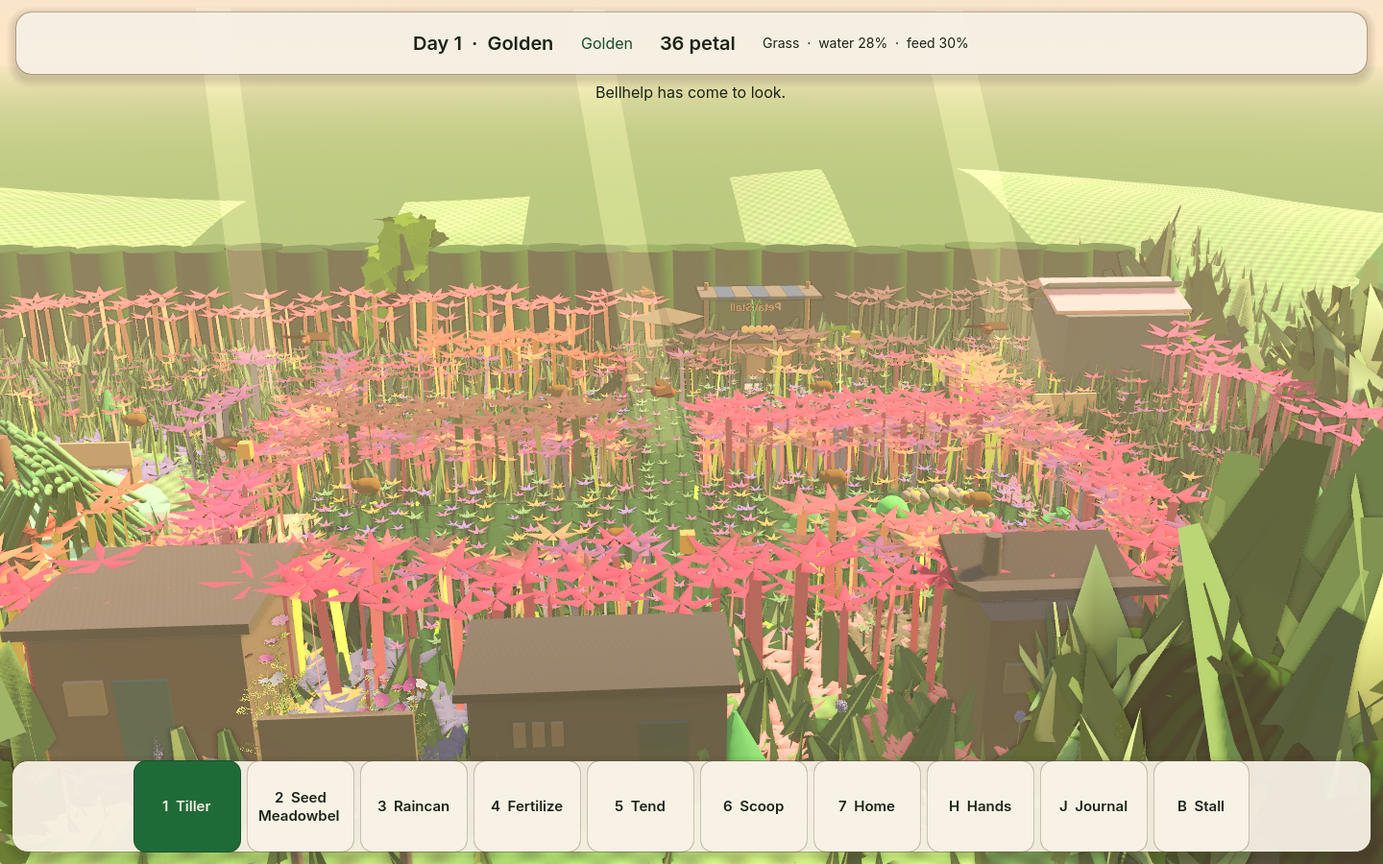
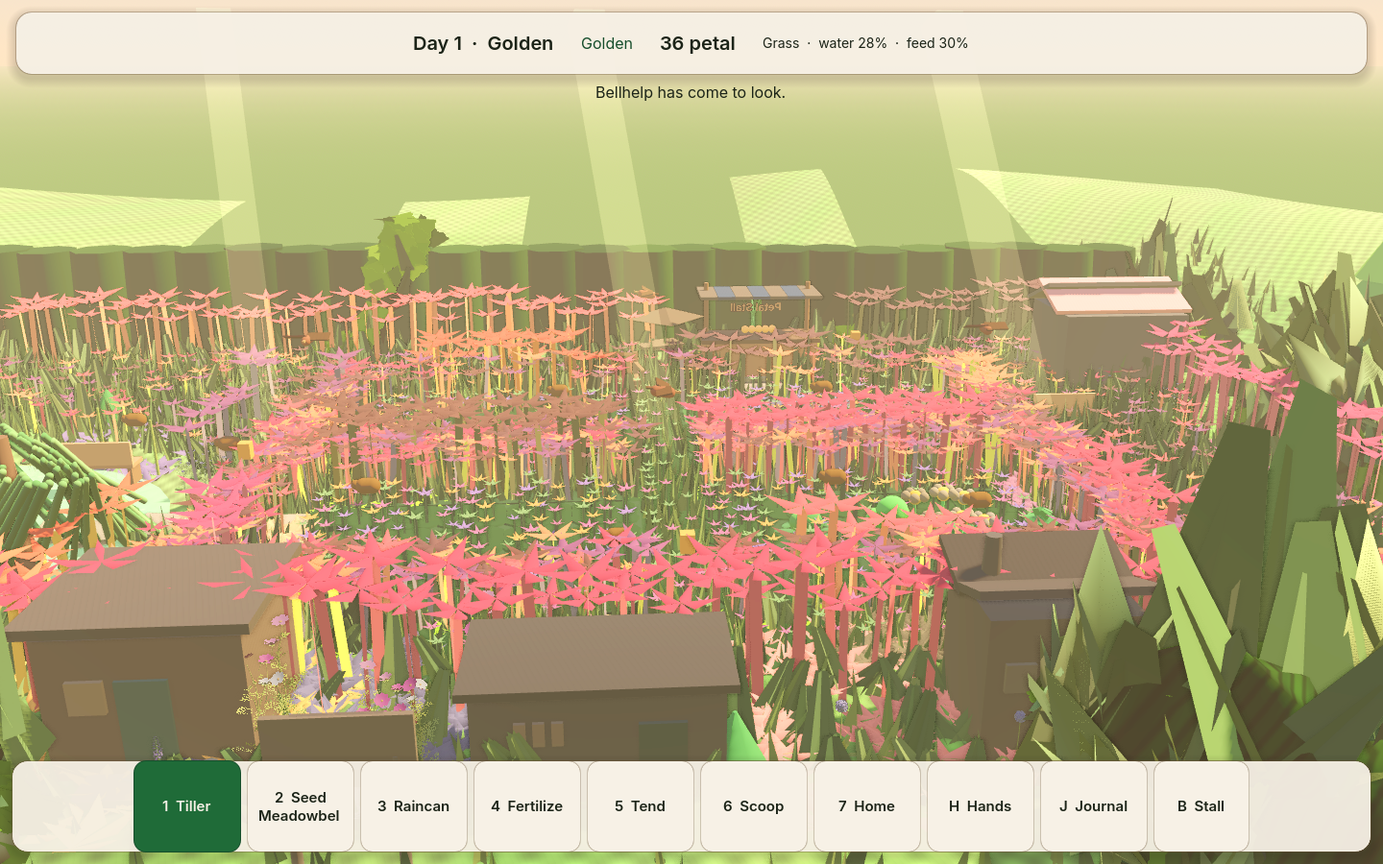
Grow lawn grass on the old bed tracks.
The stall spur and the pond path stay worn. This shot is 1.21% (903), hill (212.0, 223.6, 146.4).

diff --git a/docs/PETALWILD_MASTER_STATE.md b/docs/PETALWILD_MASTER_STATE.md
@@ -38,7 +38,7 @@ This machine has no Vulkan surface. Godot falls back to OpenGL 3 / llvmpipe. Aud
 - The garden does not yet look like the concept plates. See the gap list below.
 - Bellhelp’s five sphere lobes are gone. Five narrow petals run from the tips down to a small pad, with a dark five-petal well, a gold seed, a wider flared whorl, a lower rim, five gap tips past the lobes, a darker band, and a wide short rank inside the tips. The wide skirt of spheres is gone.
 - Lumen’s stalk is one fluted taper, cream at the base and green at the crown. The raised hand holds a seed tray. Each hand is a palm with three fingers and a thumb.
-- Crest leaf cards are 0.4 scale, and the far hedge keeps one 2.5 m tuft in four. A dark shrub row stands just behind that wall, taller at the east end. Light-green in the upper opening band fell from 53% to 24%, and in the lower band from 36% to 13%. The hill did not move. The stall still shows through the middle. The bright blue in that opening was the awning cloth. That stripe is darker now, about (171, 171, 173), and the sky-blue detector on the overview is 0. The shrub row behind the wall was the pale green in the upper band. That check now covers 1.2%, down from 3.5%. The crest leaf cards and the far trees were the side-opening pale pixels. The north backdrop trees are shorter. Paths are dark dirt with darker flagstones. Blooms are rose. StandardMaterial specular is off. The bench and planter are darkened, bright plant-atlas texels are capped, and the lantern glass is amber. The pink disk by the south-west rail, the untilled grass-plot tops, the meadowbell petals, the mauve bed, the resident hands, the light flagstones, the path dirt, and the loose stones are darkened. Overview pixels at pure white are 0. A planted cell keeps the meadow lid, so the crop sits in the bed. The north and south plots meet across the lawn. Flowers spill past the outer edges of the four beds and still line the north-south path. The path center stays open. The north-south track is narrower and its shoulders are meadow. The south and north tracks are narrower too. The wooden frames and the inner hedge around the beds are gone. The bed tracks are meadow. The stall spur and the pond path stay worn. On the smaller-stone shot that check was 1.16% (870 pixels). On the open-stone shot that check was 1.28% (955 pixels). On this shot the upper-band check is 1.53% (1148 pixels) and the hill mean is (212.2, 223.9, 146.6). Eight bees drift over the beds. Four birds cross the garden by day and perch at dusk and in the rain.
+- Crest leaf cards are 0.4 scale, and the far hedge keeps one 2.5 m tuft in four. A dark shrub row stands just behind that wall, taller at the east end. Light-green in the upper opening band fell from 53% to 24%, and in the lower band from 36% to 13%. The hill did not move. The stall still shows through the middle. The bright blue in that opening was the awning cloth. That stripe is darker now, about (171, 171, 173), and the sky-blue detector on the overview is 0. The shrub row behind the wall was the pale green in the upper band. That check now covers 1.2%, down from 3.5%. The crest leaf cards and the far trees were the side-opening pale pixels. The north backdrop trees are shorter. Paths are dark dirt with darker flagstones. Blooms are rose. StandardMaterial specular is off. The bench and planter are darkened, bright plant-atlas texels are capped, and the lantern glass is amber. The pink disk by the south-west rail, the untilled grass-plot tops, the meadowbell petals, the mauve bed, the resident hands, the light flagstones, the path dirt, and the loose stones are darkened. Overview pixels at pure white are 0. A planted cell keeps the meadow lid, so the crop sits in the bed. The north and south plots meet across the lawn. Flowers spill past the outer edges of the four beds and still line the north-south path. The path center stays open. The north-south track is narrower and its shoulders are meadow. The south and north tracks are narrower too. The wooden frames and the inner hedge around the beds are gone. The bed tracks are meadow, with the same lawn grass. The stall spur and the pond path stay worn. On the smaller-stone shot that check was 1.16% (870 pixels). On the open-stone shot that check was 1.28% (955 pixels). On the flower-track shot that check was 1.53% (1148 pixels) and the hill mean was (212.2, 223.9, 146.6). On this shot the upper-band check is 1.21% (903 pixels) and the hill mean is (212.0, 223.6, 146.4). Eight bees drift over the beds. Four birds cross the garden by day and perch at dusk and in the rain.
 - City, venues, and the agent civilisation are a single parish record (`data/district.json`, Hedge Hollow, phase A).
 - On-screen jellies stay at district fidelity or nearer. The directory shows each resident's home and job. The parish page lists venues. Petal Stall, the potting shed, the hedge tea house, the research hut, the media foundry, and the town hall board are open. Grove Park is not built, and demand for it is not simulated. Petal Stall demand is the people present plus creature residents.
 - Trust cannot research, draft, or act outside the process.
@@ -64,14 +64,14 @@ Spent: 0. Remaining on the connected account: **367.46** (pro). Catalog check re
 
 Compared `docs/screenshots/wave1_overview.png`, `wave1_jelly.png`, and `wave1_lumen.png` with `docs/reference/petalwild_target_garden_01.png` and `petalwild_target_garden_02.png`.
 
-The north backdrop trees are shorter than the hedge. Crest leaf cards are 0.4 scale, and the far hedge keeps one 2.5 m tuft in four. A dark shrub row stands just behind that wall, taller at the east end. Light-green pixels fell from 53% to 24% in the upper opening band (screen y 265–320) and from 36% to 13% in the lower band (y 290–360). East-lip luminance (y 252–272) fell from 200 to 162. The hill (y 200–245) did not change. Bellhelp’s close-up is on open lawn: five narrow lobes, a dark five-petal well, a gold seed, a wider flared whorl, a lower rim, five gap tips past the lobes, a darker band, and a wide short rank inside the tips. The bench and planter use a dark multiply, bright plant-atlas texels are capped, and the lantern glass is amber. The pink disk by the south-west rail, the untilled grass-plot tops, the meadowbell petals, the mauve bed, the resident hands, the light flagstones, the path dirt, and the loose stones are darkened. Pure white on this overview is 0. The stall awning’s bright blue was cloth, now about (171, 171, 173), and the sky-blue detector is 0. The shrub row behind the wall no longer reads as pale green; that upper-band check is 1.2%. On the previous shot that check was 1.17% and the hill mean was (212.9, 224.4, 147.6). With the hedge tea house in the lower left, that shot was 1.30%. With the research hut in the lower middle, that shot was 1.17% (874 pixels). With the media foundry in the lower middle, that shot was 1.15% (862 pixels). With the town hall board in the south gate, that shot was 1.29% (968 pixels) and the hill mean was (212.0, 223.6, 146.4). On that shot the check was 1.54% (1155 pixels) and the hill mean was (212.0, 223.7, 146.5). Empty untilled beds now carry nine dark leaf discs and eight short flowers, and a tilled or planted bed clears them. On the leaf-cover shot the check was 1.60% (1197 pixels) and the hill mean was (212.1, 223.8, 146.5). Neighboring empty cells now share an overlapping dark lid, so the brown seam inside a plot closes. On the joined-lid shot the check was 1.61% (1208 pixels) and the hill mean was (212.1, 223.8, 146.5). A planted cell now keeps that dark lid, so the crop sits in the meadow instead of an inset square. On the planted-lid shot the check was 1.54% (1149 pixels) and the hill mean was (212.1, 223.7, 146.5). The north and south plots now meet across the lawn, and the north-south path stays open. On the bridge shot the check was 1.57% (1176 pixels) and the hill mean was (212.2, 223.8, 146.6). Flowers now sit on both lips of the north-south path, and the path center stays open. On the path-lip shot the check was 1.61% (1204 pixels) and the hill mean was (212.1, 223.8, 146.5). Flowers now spill past the outer edges of the four beds, and the path-center pixels are unchanged. On the bed-edge shot the check was 1.45% (1083 pixels) and the hill mean was (212.2, 223.9, 146.6). The north-south track is narrower, its shoulders are meadow, and the center stays stone. On the narrow-track shot the check was 1.46% (1091 pixels) and the hill mean was (212.2, 223.9, 146.6). The south and north tracks are narrower too, with flowers on their lips. On the track-lip shot the check was 1.45% (1083 pixels) and the hill mean was (212.2, 223.9, 146.6). The wooden frames and the inner hedge around the four beds are gone. The parish hedge stays. On the open-bed shot the check was 1.26% (940 pixels) and the hill mean was (212.0, 223.6, 146.4). On the stepping-stone shot the check was 1.52% (1136 pixels) and the hill mean was (212.0, 223.7, 146.5). On the smaller-stone shot the check was 1.16% (870 pixels) and the hill mean was (212.0, 223.6, 146.4). On the open-stone shot the check was 1.28% (955 pixels) and the hill mean was (212.2, 223.9, 146.6). On this shot the check is 1.53% (1148 pixels) and the hill mean is (212.2, 223.9, 146.6). The swing is the west edge of the hill under the swaying leaves. A planted meadowbell is three bells on a leaf pad, and every crop sits in a ring of eight leaves. Eight bees drift over the beds. Four birds cross the garden by day and perch at dusk and in the rain. Paths are flagstones on dark dirt. Lumen’s stalk is one fluted taper, and the raised hand holds the seed tray. `PETAL_SMOKE_OK`, `PETAL_RULES_OK`, and `PETAL_CAPTURE_OK` passed on this tree. Shots are the six `wave1_*.png` files.
+The north backdrop trees are shorter than the hedge. Crest leaf cards are 0.4 scale, and the far hedge keeps one 2.5 m tuft in four. A dark shrub row stands just behind that wall, taller at the east end. Light-green pixels fell from 53% to 24% in the upper opening band (screen y 265–320) and from 36% to 13% in the lower band (y 290–360). East-lip luminance (y 252–272) fell from 200 to 162. The hill (y 200–245) did not change. Bellhelp’s close-up is on open lawn: five narrow lobes, a dark five-petal well, a gold seed, a wider flared whorl, a lower rim, five gap tips past the lobes, a darker band, and a wide short rank inside the tips. The bench and planter use a dark multiply, bright plant-atlas texels are capped, and the lantern glass is amber. The pink disk by the south-west rail, the untilled grass-plot tops, the meadowbell petals, the mauve bed, the resident hands, the light flagstones, the path dirt, and the loose stones are darkened. Pure white on this overview is 0. The stall awning’s bright blue was cloth, now about (171, 171, 173), and the sky-blue detector is 0. The shrub row behind the wall no longer reads as pale green; that upper-band check is 1.2%. On the previous shot that check was 1.17% and the hill mean was (212.9, 224.4, 147.6). With the hedge tea house in the lower left, that shot was 1.30%. With the research hut in the lower middle, that shot was 1.17% (874 pixels). With the media foundry in the lower middle, that shot was 1.15% (862 pixels). With the town hall board in the south gate, that shot was 1.29% (968 pixels) and the hill mean was (212.0, 223.6, 146.4). On that shot the check was 1.54% (1155 pixels) and the hill mean was (212.0, 223.7, 146.5). Empty untilled beds now carry nine dark leaf discs and eight short flowers, and a tilled or planted bed clears them. On the leaf-cover shot the check was 1.60% (1197 pixels) and the hill mean was (212.1, 223.8, 146.5). Neighboring empty cells now share an overlapping dark lid, so the brown seam inside a plot closes. On the joined-lid shot the check was 1.61% (1208 pixels) and the hill mean was (212.1, 223.8, 146.5). A planted cell now keeps that dark lid, so the crop sits in the meadow instead of an inset square. On the planted-lid shot the check was 1.54% (1149 pixels) and the hill mean was (212.1, 223.7, 146.5). The north and south plots now meet across the lawn, and the north-south path stays open. On the bridge shot the check was 1.57% (1176 pixels) and the hill mean was (212.2, 223.8, 146.6). Flowers now sit on both lips of the north-south path, and the path center stays open. On the path-lip shot the check was 1.61% (1204 pixels) and the hill mean was (212.1, 223.8, 146.5). Flowers now spill past the outer edges of the four beds, and the path-center pixels are unchanged. On the bed-edge shot the check was 1.45% (1083 pixels) and the hill mean was (212.2, 223.9, 146.6). The north-south track is narrower, its shoulders are meadow, and the center stays stone. On the narrow-track shot the check was 1.46% (1091 pixels) and the hill mean was (212.2, 223.9, 146.6). The south and north tracks are narrower too, with flowers on their lips. On the track-lip shot the check was 1.45% (1083 pixels) and the hill mean was (212.2, 223.9, 146.6). The wooden frames and the inner hedge around the four beds are gone. The parish hedge stays. On the open-bed shot the check was 1.26% (940 pixels) and the hill mean was (212.0, 223.6, 146.4). On the stepping-stone shot the check was 1.52% (1136 pixels) and the hill mean was (212.0, 223.7, 146.5). On the smaller-stone shot the check was 1.16% (870 pixels) and the hill mean was (212.0, 223.6, 146.4). On the open-stone shot the check was 1.28% (955 pixels) and the hill mean was (212.2, 223.9, 146.6). On the flower-track shot the check was 1.53% (1148 pixels) and the hill mean was (212.2, 223.9, 146.6). On this shot the check is 1.21% (903 pixels) and the hill mean is (212.0, 223.6, 146.4). The swing is the west edge of the hill under the swaying leaves. A planted meadowbell is three bells on a leaf pad, and every crop sits in a ring of eight leaves. Eight bees drift over the beds. Four birds cross the garden by day and perch at dusk and in the rain. Paths are flagstones on dark dirt. Lumen’s stalk is one fluted taper, and the raised hand holds the seed tray. `PETAL_SMOKE_OK`, `PETAL_RULES_OK`, and `PETAL_CAPTURE_OK` passed on this tree. Shots are the six `wave1_*.png` files.
 
 Three largest gaps still open, against `docs/reference/petalwild_target_garden_01.png` and `petalwild_target_garden_02.png`:
 
-1. **Hedge skyline.** The crest cards and the far trees are darker. On this shot 1.53% of the upper band is still light-green (1148 pixels), mostly the west edge of the hill. The hill mean is (212.2, 223.9, 146.6). The stall still shows through the middle. The south rooms, the gate board, and the bed blooms sit lower and do not cover that edge. PETAL-05.
+1. **Hedge skyline.** The crest cards and the far trees are darker. On this shot 1.21% of the upper band is still light-green (903 pixels), mostly the west edge of the hill. The hill mean is (212.0, 223.6, 146.4). The stall still shows through the middle. The south rooms, the gate board, and the bed blooms sit lower and do not cover that edge. PETAL-05.
 2. **Bellhelp.** Ten tips, a short rank inside them, a darker band, and a wider skirt. The dark throat is still the center. PETAL-03.
-3. **Plot grid.** The wooden frames and the inner hedge around the four beds are gone. The parish hedge stays. Flowers spill past the outer edges of the beds and still line the north-south path. The north-south, south, and north bed tracks no longer carry stones. Meadow and flowers cover them. The stall spur and the pond path stay worn. The plates are one continuous planting. Overview pixels at pure white are 0, and the brightest leftover is still the warm horizon at screen x 1034, y 178, (255, 255, 201). That is sky. PETAL-06.
+3. **Plot grid.** The wooden frames and the inner hedge around the four beds are gone. The parish hedge stays. Flowers spill past the outer edges of the beds and still line the north-south path. The north-south, south, and north bed tracks no longer carry stones. Meadow, flowers, and the same lawn grass cover them. The stall spur and the pond path stay worn. The plates are one continuous planting. Overview pixels at pure white are 0, and the brightest leftover is still the warm horizon at screen x 1034, y 178, (255, 255, 201). That is sky. PETAL-06.
 
 ## Next integration
 
-Keep this build playable. The next pass stays inside `scenes/main.tscn` (Hedge Hollow). The creature chain through Gushorn can happen in this garden, and two resident Bellhelps raise the species to breeding. The later resident walks to the first, the journal says a pair is in the parish, a reload keeps that pair, and off-screen they share the first resident's home kit. A resident who is petted until they trust your hands is bonded. By day they walk to the gardener, the journal keeps that trust beside the pair, and a reload keeps the bond. By day a resident bites a ripe plant they came for, that plant has to grow back, and a reload keeps the bite. A dry crop droops and loses height until the bed is watered. Left dry for six hours, it is gone from the bed, and a reload keeps that clock. A visitor whose plants are gone walks to the gate. A settler stays. A placed home kit is a moss shelter. Off-screen, a resident still bites a ripe plant they came for, and a reload keeps that bite. Grove Park is still not built. The hedge tea house stands on the south lawn. The research hut stands west of it, and the media foundry stands between them. The town hall is a board by the south gate. Meadowbells are a clump of three, and every crop sits in a ring of leaves. The wooden frames and the inner hedge around the four beds are gone. The parish hedge stays. Flowers spill past the outer edges of the beds and still line the north-south path. The north-south, south, and north bed tracks no longer carry stones. Meadow and flowers cover them. The stall spur and the pond path stay worn. On this shot 1.53% of the upper band is still light green (1148 pixels), mostly the west edge of the hill, and the stall still shows through the middle. The hill mean is (212.2, 223.9, 146.6). The south rooms and the town hall board sit in the foreground. Bees sit on the flowers while it rains. Do not paint that hill edge, do not cut the hill, and do not raise the east shrubs. Do not fill Bellhelp’s dark throat. Do not open a side demo. The Kenney/Cara grove in `scripts/presentation/` is not the running scene.
+Keep this build playable. The next pass stays inside `scenes/main.tscn` (Hedge Hollow). The creature chain through Gushorn can happen in this garden, and two resident Bellhelps raise the species to breeding. The later resident walks to the first, the journal says a pair is in the parish, a reload keeps that pair, and off-screen they share the first resident's home kit. A resident who is petted until they trust your hands is bonded. By day they walk to the gardener, the journal keeps that trust beside the pair, and a reload keeps the bond. By day a resident bites a ripe plant they came for, that plant has to grow back, and a reload keeps the bite. A dry crop droops and loses height until the bed is watered. Left dry for six hours, it is gone from the bed, and a reload keeps that clock. A visitor whose plants are gone walks to the gate. A settler stays. A placed home kit is a moss shelter. Off-screen, a resident still bites a ripe plant they came for, and a reload keeps that bite. Grove Park is still not built. The hedge tea house stands on the south lawn. The research hut stands west of it, and the media foundry stands between them. The town hall is a board by the south gate. Meadowbells are a clump of three, and every crop sits in a ring of leaves. The wooden frames and the inner hedge around the four beds are gone. The parish hedge stays. Flowers spill past the outer edges of the beds and still line the north-south path. The north-south, south, and north bed tracks no longer carry stones. Meadow, flowers, and the same lawn grass cover them. The stall spur and the pond path stay worn. On this shot 1.21% of the upper band is still light green (903 pixels), mostly the west edge of the hill, and the stall still shows through the middle. The hill mean is (212.0, 223.6, 146.4). The south rooms and the town hall board sit in the foreground. Bees sit on the flowers while it rains. Do not paint that hill edge, do not cut the hill, and do not raise the east shrubs. Do not fill Bellhelp’s dark throat. Do not open a side demo. The Kenney/Cara grove in `scripts/presentation/` is not the running scene.

diff --git a/docs/VISUAL_GAP.md b/docs/VISUAL_GAP.md
@@ -2,12 +2,12 @@
 
 Compared on 2026-09-22. The scene `tools/run.sh` launches is Hedge Hollow. Shots: `docs/screenshots/wave1_overview.png`, `wave1_jelly.png`, `wave1_lumen.png`. Targets: `docs/reference/petalwild_target_garden_01.png` and `petalwild_target_garden_02.png`.
 
-The north backdrop trees are shorter than the hedge. Crest leaf cards are 0.4 of their old size, and the far wall keeps one 2.5 m tuft in four. A row of dark shrubs stands just behind that wall. The east end is taller so its lip meets the hedge line. Light-green pixels in the upper opening band (screen y 265–320, x 40–1400) fell from 53% to 24%, and in the lower band (y 290–360, x 80–1200) from 36% to 13%. On the east lip (y 252–272, x 40–300) mean luminance fell from 200 to 162. The hill (y 200–245) did not change. The stall still sits in front of the middle of the wall. The bright blue band in that opening was the awning cloth, not a hole in the hedge. That stripe is darker now and reads about (171, 171, 173). A sky-blue detector on the overview (blue above 200, ahead of red by 20 and of green by 10) is 0. The shrub row behind the wall was lifting to pale green under the sun. The same light-green check (green ahead of red by 15 and of blue by 20, green above 140) now covers 1.2% of the upper band, down from 3.5% on the previous shot. The crest leaf cards and the far trees were the pale pixels in the side openings. The upper hill (screen y 200–230) stayed at about (213, 224, 148). The ground sky below the horizon is green, so a hole in the hill reads as olive rather than pale sky. Bellhelp’s close-up shows five pointed lobes, five gap tips past them, a wide short rank inside that ring, a darker band, and a wider flared whorl. The dark throat stays. The wide skirt of spheres is gone. The bench and planter use a dark multiply on the prop texture, and bright plant-atlas texels are capped. The three lantern glasses are amber instead of pure white. The pink disk by the south-west rail, the untilled grass-plot tops, the meadowbell petals, the mauve bed, the resident hands, the light flagstones, the path dirt, and the loose stones are darkened so they stay under the sun. Eight bees drift over the beds. Four birds cross the garden by day and perch at dusk and in the rain. A planted meadowbell is three bells on a leaf pad, and every crop sits in a ring of eight leaves. Pure white on this overview is 0. On the previous shot the upper-band light-green check was 1.17% and the hill mean was (212.9, 224.4, 147.6). The hedge tea house stands in the lower left of the home shot. On that shot the same check was 1.30% (969 pixels) and the hill mean was (212.0, 223.6, 146.4). The research hut stands in the lower middle of that shot, where the check was 1.17% (874 pixels) and the hill mean was (212.0, 223.6, 146.4). The media foundry stands in the lower middle of that shot, where the check was 1.15% (862 pixels) and the hill mean was (212.0, 223.6, 146.4). The town hall board now stands in the south gate. On the town-hall shot the check was 1.29% (968 pixels) and the hill mean was (212.0, 223.6, 146.4). On the six-bloom shot the check was 1.54% (1155 pixels) and the hill mean was (212.0, 223.7, 146.5). Empty untilled beds now carry nine dark leaf discs and eight short flowers, and a tilled or planted bed clears them. On the leaf-cover shot the check was 1.60% (1197 pixels) and the hill mean was (212.1, 223.8, 146.5). Neighboring empty cells now share an overlapping dark lid, so the brown seam inside a plot closes. On the joined-lid shot the check was 1.61% (1208 pixels) and the hill mean was (212.1, 223.8, 146.5). A planted cell now keeps that dark lid, so the crop sits in the meadow instead of an inset square. On the planted-lid shot the check was 1.54% (1149 pixels) and the hill mean was (212.1, 223.7, 146.5). The north and south plots now meet across the lawn, and the north-south path stays open. On the bridge shot the check was 1.57% (1176 pixels) and the hill mean was (212.2, 223.8, 146.6). Flowers now sit on both lips of the north-south path, and the path center stays open. On the path-lip shot the check was 1.61% (1204 pixels) and the hill mean was (212.1, 223.8, 146.5). Flowers now spill past the outer edges of the four beds, and the path-center pixels are unchanged. On the bed-edge shot the check was 1.45% (1083 pixels) and the hill mean was (212.2, 223.9, 146.6). The north-south track is narrower, its shoulders are meadow, and the center stays stone. On the narrow-track shot the check was 1.46% (1091 pixels) and the hill mean was (212.2, 223.9, 146.6). The south and north tracks are narrower too, with flowers on their lips. On the track-lip shot the check was 1.45% (1083 pixels) and the hill mean was (212.2, 223.9, 146.6). The wooden frames and the inner hedge around the four beds are gone. The parish hedge stays. On the open-bed shot the check was 1.26% (940 pixels) and the hill mean was (212.0, 223.6, 146.4). On the stepping-stone shot the check was 1.52% (1136 pixels) and the hill mean was (212.0, 223.7, 146.5). On the smaller-stone shot the check was 1.16% (870 pixels) and the hill mean was (212.0, 223.6, 146.4). On the open-stone shot the check was 1.28% (955 pixels) and the hill mean was (212.2, 223.9, 146.6). On this shot the check is 1.53% (1148 pixels) and the hill mean is (212.2, 223.9, 146.6). The swing is the west edge of the hill under the swaying leaves.
+The north backdrop trees are shorter than the hedge. Crest leaf cards are 0.4 of their old size, and the far wall keeps one 2.5 m tuft in four. A row of dark shrubs stands just behind that wall. The east end is taller so its lip meets the hedge line. Light-green pixels in the upper opening band (screen y 265–320, x 40–1400) fell from 53% to 24%, and in the lower band (y 290–360, x 80–1200) from 36% to 13%. On the east lip (y 252–272, x 40–300) mean luminance fell from 200 to 162. The hill (y 200–245) did not change. The stall still sits in front of the middle of the wall. The bright blue band in that opening was the awning cloth, not a hole in the hedge. That stripe is darker now and reads about (171, 171, 173). A sky-blue detector on the overview (blue above 200, ahead of red by 20 and of green by 10) is 0. The shrub row behind the wall was lifting to pale green under the sun. The same light-green check (green ahead of red by 15 and of blue by 20, green above 140) now covers 1.2% of the upper band, down from 3.5% on the previous shot. The crest leaf cards and the far trees were the pale pixels in the side openings. The upper hill (screen y 200–230) stayed at about (213, 224, 148). The ground sky below the horizon is green, so a hole in the hill reads as olive rather than pale sky. Bellhelp’s close-up shows five pointed lobes, five gap tips past them, a wide short rank inside that ring, a darker band, and a wider flared whorl. The dark throat stays. The wide skirt of spheres is gone. The bench and planter use a dark multiply on the prop texture, and bright plant-atlas texels are capped. The three lantern glasses are amber instead of pure white. The pink disk by the south-west rail, the untilled grass-plot tops, the meadowbell petals, the mauve bed, the resident hands, the light flagstones, the path dirt, and the loose stones are darkened so they stay under the sun. Eight bees drift over the beds. Four birds cross the garden by day and perch at dusk and in the rain. A planted meadowbell is three bells on a leaf pad, and every crop sits in a ring of eight leaves. Pure white on this overview is 0. On the previous shot the upper-band light-green check was 1.17% and the hill mean was (212.9, 224.4, 147.6). The hedge tea house stands in the lower left of the home shot. On that shot the same check was 1.30% (969 pixels) and the hill mean was (212.0, 223.6, 146.4). The research hut stands in the lower middle of that shot, where the check was 1.17% (874 pixels) and the hill mean was (212.0, 223.6, 146.4). The media foundry stands in the lower middle of that shot, where the check was 1.15% (862 pixels) and the hill mean was (212.0, 223.6, 146.4). The town hall board now stands in the south gate. On the town-hall shot the check was 1.29% (968 pixels) and the hill mean was (212.0, 223.6, 146.4). On the six-bloom shot the check was 1.54% (1155 pixels) and the hill mean was (212.0, 223.7, 146.5). Empty untilled beds now carry nine dark leaf discs and eight short flowers, and a tilled or planted bed clears them. On the leaf-cover shot the check was 1.60% (1197 pixels) and the hill mean was (212.1, 223.8, 146.5). Neighboring empty cells now share an overlapping dark lid, so the brown seam inside a plot closes. On the joined-lid shot the check was 1.61% (1208 pixels) and the hill mean was (212.1, 223.8, 146.5). A planted cell now keeps that dark lid, so the crop sits in the meadow instead of an inset square. On the planted-lid shot the check was 1.54% (1149 pixels) and the hill mean was (212.1, 223.7, 146.5). The north and south plots now meet across the lawn, and the north-south path stays open. On the bridge shot the check was 1.57% (1176 pixels) and the hill mean was (212.2, 223.8, 146.6). Flowers now sit on both lips of the north-south path, and the path center stays open. On the path-lip shot the check was 1.61% (1204 pixels) and the hill mean was (212.1, 223.8, 146.5). Flowers now spill past the outer edges of the four beds, and the path-center pixels are unchanged. On the bed-edge shot the check was 1.45% (1083 pixels) and the hill mean was (212.2, 223.9, 146.6). The north-south track is narrower, its shoulders are meadow, and the center stays stone. On the narrow-track shot the check was 1.46% (1091 pixels) and the hill mean was (212.2, 223.9, 146.6). The south and north tracks are narrower too, with flowers on their lips. On the track-lip shot the check was 1.45% (1083 pixels) and the hill mean was (212.2, 223.9, 146.6). The wooden frames and the inner hedge around the four beds are gone. The parish hedge stays. On the open-bed shot the check was 1.26% (940 pixels) and the hill mean was (212.0, 223.6, 146.4). On the stepping-stone shot the check was 1.52% (1136 pixels) and the hill mean was (212.0, 223.7, 146.5). On the smaller-stone shot the check was 1.16% (870 pixels) and the hill mean was (212.0, 223.6, 146.4). On the open-stone shot the check was 1.28% (955 pixels) and the hill mean was (212.2, 223.9, 146.6). On the flower-track shot the check was 1.53% (1148 pixels) and the hill mean was (212.2, 223.9, 146.6). On this shot the check is 1.21% (903 pixels) and the hill mean is (212.0, 223.6, 146.4). The swing is the west edge of the hill under the swaying leaves.
 
 ## Three largest gaps
 
-1. **Hedge skyline.** The crest cards and the far trees are darker. On this shot 1.53% of the upper band is still light-green (1148 pixels), mostly the west edge of the hill. The hill mean is (212.2, 223.9, 146.6). The stall still shows through the middle. The south rooms, the gate board, and the bed blooms sit lower and do not cover that edge. PETAL-05.
+1. **Hedge skyline.** The crest cards and the far trees are darker. On this shot 1.21% of the upper band is still light-green (903 pixels), mostly the west edge of the hill. The hill mean is (212.0, 223.6, 146.4). The stall still shows through the middle. The south rooms, the gate board, and the bed blooms sit lower and do not cover that edge. PETAL-05.
 
 2. **Bellhelp.** Ten tips, a short rank inside them, a darker band, and a wider skirt. The dark throat is still the center. PETAL-03.
 
-3. **Plot grid.** The wooden frames and the inner hedge around the four beds are gone. The parish hedge stays. Flowers spill past the outer edges of the beds and still line the north-south path. The north-south, south, and north bed tracks no longer carry stones. Meadow and flowers cover them. The stall spur and the pond path stay worn. The plates are one continuous planting. Overview pixels at pure white are 0, and the brightest leftover is still the warm horizon at screen x 1034, y 178, (255, 255, 201). That is sky. PETAL-06.
+3. **Plot grid.** The wooden frames and the inner hedge around the four beds are gone. The parish hedge stays. Flowers spill past the outer edges of the beds and still line the north-south path. The north-south, south, and north bed tracks no longer carry stones. Meadow, flowers, and the same lawn grass cover them. The stall spur and the pond path stay worn. The plates are one continuous planting. Overview pixels at pure white are 0, and the brightest leftover is still the warm horizon at screen x 1034, y 178, (255, 255, 201). That is sky. PETAL-06.
